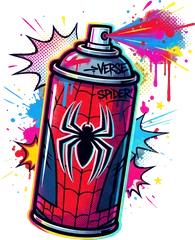
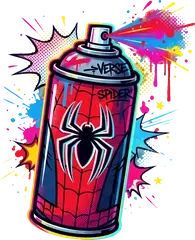
feat: enfoque en infraestructura e IA, lectura más cómoda, rendimiento y SEO
- Rol "Backend Developer · Infraestructura e IA"; Sobre mí en tres párrafos con el enfoque e inglés B1 en Skills
- Texto base de 18 px, más interlineado y contraste; resúmenes en negrita
- Fuentes y avatar servidos desde el sitio, CSS incrustado y lata de spray recomprimida
- nginx con gzip y caché para los assets con hash
- robots.txt, sitemap con hreflang, JSON-LD de Person y descripción por idioma
- Dominio canónico: chewi.dev

diff --git a/src/data/profile.ts b/src/data/profile.ts
@@ -9,7 +9,7 @@ const me = {
   email: 'darwingtx@gmail.com',
   github: 'https://github.com/darwingtx',
   linkedin: 'https://www.linkedin.com/in/darwincastao',
-  avatar: 'https://avatars.githubusercontent.com/u/79672629?v=4',
+  avatar: '/avatar.webp',
 };
 
 // Datos que no cambian con el idioma, en el mismo orden que los textos de cada proyecto.
@@ -67,16 +67,25 @@ const skillItems = [
 ];
 
 const es = {
-  meta: { title: `${me.name} — Backend Developer · AI Engineer`, locale: 'es_CO' },
+  meta: {
+    title: `${me.name} — Backend Developer · Infraestructura e IA`,
+    description: 'Darwin Castaño, backend developer en Medellín. TypeScript, Java y Python; infraestructura, automatización y agentes de IA en producción.',
+    locale: 'es_CO',
+  },
   profile: {
     ...me,
-    role: 'Backend Developer · AI Engineer en formación',
+    role: 'Backend Developer · Infraestructura e IA',
     location: 'Medellín, Colombia',
     summary:
-      'Backend developer en Calenardhon (TypeScript, Java, Python), donde construyo automatizaciones con agentes de IA. Investigo cómo correr LLMs open-source en hardware convencional.',
-    about:
-      'Estoy en último año de Ingeniería Informática en el Politécnico Colombiano Jaime Isaza Cadavid y quiero crecer como <strong class="text-red">AI Engineer</strong>. En el semillero <strong>SIIC</strong> investigo cómo repartir modelos grandes entre PCs comunes para correrlos donde antes no cabían.',
-    interests: ['Inferencia distribuida', 'RAG', 'MLOps', 'Agentes de IA'],
+      'Backend developer en Calenardhon (TypeScript, Java, Python), donde automatizo procesos con agentes de IA. Me enfoco en la infraestructura que hace funcionar la IA: servidores, automatización y modelos en producción.',
+    about: [
+      'Soy estudiante de último año de Ingeniería Informática en el Politécnico Colombiano Jaime Isaza Cadavid, en Medellín. Me apasiona aprender, sobre todo entender cómo funcionan las cosas por dentro.',
+      'Tengo una mezcla de gustos. Por un lado, la <strong>infraestructura</strong>: configurar y mantener servidores, automatizar despliegues y construir backends sólidos, con un ojo puesto en la <strong>ciberseguridad</strong>. Por otro, implementar <strong>IA</strong> y construir cosas con ella. Uso Linux a diario y tengo un homelab propio donde pongo todo eso en práctica.',
+      'Mi enfoque está donde se cruzan: <strong class="text-red">la infraestructura que hace funcionar la IA</strong>. Desplegar, automatizar y operar modelos y agentes en servidores reales, de forma eficiente, segura y a bajo costo.',
+      'En el semillero <strong>SIIC</strong> investigo cómo repartir y usar <strong>modelos grandes de lenguaje (LLMs)</strong> en computadores de uso común, de forma eficiente y a bajo costo, para que una universidad pueda correrlos sin GPUs costosas.',
+    ],
+    interests: ['Infraestructura', 'Servidores Linux', 'DevOps', 'Agentes de IA', 'LLMs en hardware común', 'Ciberseguridad'],
+    languages: { group: 'Idiomas', items: ['Español · nativo', 'Inglés · B1'] },
   },
   ui: {
     nav: ['Sobre mí', 'Experiencia', 'Proyectos', 'Skills', 'Habilidades blandas', 'Contacto'],
@@ -190,16 +199,25 @@ const es = {
 };
 
 const en: typeof es = {
-  meta: { title: `${me.name} — Backend Developer · AI Engineer`, locale: 'en_US' },
+  meta: {
+    title: `${me.name} — Backend Developer · Infrastructure & AI`,
+    description: 'Darwin Castaño, backend developer in Medellín, Colombia. TypeScript, Java, Python; infrastructure, automation and AI agents in production.',
+    locale: 'en_US',
+  },
   profile: {
     ...me,
-    role: 'Backend Developer · Aspiring AI Engineer',
+    role: 'Backend Developer · Infrastructure & AI',
     location: 'Medellín, Colombia',
     summary:
-      'Backend developer at Calenardhon (TypeScript, Java, Python), building automations with AI agents. I research how to run open-source LLMs on commodity hardware.',
-    about:
-      'I am a final-year Computer Engineering student at Politécnico Colombiano Jaime Isaza Cadavid, growing toward <strong class="text-red">AI Engineer</strong>. At the <strong>SIIC</strong> research group I study how to split large models across regular PCs so they run where they did not fit before.',
-    interests: ['Distributed inference', 'RAG', 'MLOps', 'AI agents'],
+      'Backend developer at Calenardhon (TypeScript, Java, Python), automating processes with AI agents. I focus on the infrastructure that makes AI work: servers, automation and models in production.',
+    about: [
+      'I am a final-year Computer Engineering student at Politécnico Colombiano Jaime Isaza Cadavid, in Medellín. I am passionate about learning, especially about understanding how things work under the hood.',
+      'My interests are a mix. On one side, <strong>infrastructure</strong>: configuring and running servers, automating deployments and building solid backends, with an eye on <strong>cybersecurity</strong>. On the other, implementing <strong>AI</strong> and building things with it. I use Linux every day and run my own homelab, where I put all of that into practice.',
+      'My focus is where they meet: <strong class="text-red">the infrastructure that makes AI work</strong>. Deploying, automating and operating models and agents on real servers, efficiently, securely and at low cost.',
+      'At the <strong>SIIC</strong> research group I study how to split and run <strong>large language models (LLMs)</strong> on everyday computers, efficiently and at low cost, so a university can run them without expensive GPUs.',
+    ],
+    interests: ['Infrastructure', 'Linux servers', 'DevOps', 'AI agents', 'LLMs on commodity hardware', 'Cybersecurity'],
+    languages: { group: 'Languages', items: ['Spanish · native', 'English · B1'] },
   },
   ui: {
     nav: ['About', 'Experience', 'Projects', 'Skills', 'Soft skills', 'Contact'],
@@ -319,7 +337,10 @@ export function getContent(locale?: string) {
   return {
     ...c,
     projects: c.projects.map((p, i) => ({ ...projectsBase[i], ...p })),
-    skills: c.skillGroups.map((g, i) => [g, skillItems[i]] as const),
+    skills: [
+      ...c.skillGroups.map((g, i) => [g, skillItems[i]] as const),
+      [c.profile.languages.group, c.profile.languages.items] as const,
+    ],
   };
 }
 

diff --git a/src/styles/global.css b/src/styles/global.css
@@ -8,7 +8,7 @@
 @theme {
   --color-paper: #f8f5ef;
   --color-ink: #111111;
-  --color-muted: #5c5750; /* texto secundario, 6.6:1 sobre paper */
+  --color-muted: #45413c; /* texto secundario, ~9.5:1 sobre paper */
   --color-line: #ddd6ca;
   --color-card: #ffffff; /* superficies: tarjetas y chips */
   --color-coal: #111111; /* tinta fija para texto sobre amarillo, cian, rosa o blanco */
@@ -30,7 +30,7 @@
   color-scheme: dark;
   --color-paper: #0e0e13;
   --color-ink: #f3efe6;
-  --color-muted: #a59f96; /* 7.3:1 */
+  --color-muted: #c4beb4; /* ~10:1 */
   --color-line: #2c2a33;
   --color-card: #17171e;
   --color-red: #ff4757; /* 5.3:1 sobre card */
@@ -42,7 +42,7 @@
 
 @layer base {
   html { scroll-behavior: smooth; scrollbar-color: var(--color-ink) var(--color-paper); }
-  body { @apply bg-paper text-ink font-sans antialiased; }
+  body { @apply bg-paper text-ink font-sans antialiased; font-size: 1.125rem; line-height: 1.7; }
   ::selection { background: var(--color-yellow); color: var(--color-coal); }
   :focus-visible { outline: 3px solid var(--color-red); outline-offset: 4px; }
   a { text-underline-offset: 4px; }

diff --git a/src/pages/sitemap.xml.ts b/src/pages/sitemap.xml.ts
@@ -1,0 +1,15 @@
+import type { APIRoute } from 'astro';
+
+// Solo hay dos páginas (ES y EN): un sitemap a mano evita añadir una dependencia.
+export const GET: APIRoute = ({ site }) => {
+  const es = new URL('/', site).href;
+  const en = new URL('/en/', site).href;
+  const alternates = `<xhtml:link rel="alternate" hreflang="es" href="${es}"/><xhtml:link rel="alternate" hreflang="en" href="${en}"/><xhtml:link rel="alternate" hreflang="x-default" href="${es}"/>`;
+  const body = `<?xml version="1.0" encoding="UTF-8"?>
+<urlset xmlns="http://www.sitemaps.org/schemas/sitemap/0.9" xmlns:xhtml="http://www.w3.org/1999/xhtml">
+  <url><loc>${es}</loc>${alternates}</url>
+  <url><loc>${en}</loc>${alternates}</url>
+</urlset>
+`;
+  return new Response(body, { headers: { 'Content-Type': 'application/xml; charset=utf-8' } });
+};

diff --git a/src/scripts/animations.ts b/src/scripts/animations.ts
@@ -145,7 +145,7 @@ mm.add('(prefers-reduced-motion: no-preference)', () => {
     .from('.plate-pink', { x: 10, y: 10, duration: 0.7, ease: 'power4.out' }, '<')
     // El cargo se pinta como un trazo de rotulador
     .from('.hero-role', { clipPath: 'inset(0 100% 0 0)', duration: 0.5, ease: 'steps(10)' }, 1.4)
-    .from('.hero-item', { y: 16, opacity: 0, duration: 0.6, stagger: 0.1 }, 1.6)
+    .from('.hero-item', { y: 16, duration: 0.6, stagger: 0.1 }, 1.6) // sin opacidad: el resumen es el LCP
     .from('.burst', { scale: 0, rotate: -30, duration: 0.3, ease: 'steps(5)' }, 1.2);
   sprayName();
 

diff --git a/src/pages/robots.txt.ts b/src/pages/robots.txt.ts
@@ -1,0 +1,7 @@
+import type { APIRoute } from 'astro';
+
+// robots.txt generado en build: el dominio del sitemap sigue a SITE_URL.
+export const GET: APIRoute = ({ site }) =>
+  new Response(`User-agent: *\nAllow: /\n\nSitemap: ${new URL('/sitemap.xml', site)}\n`, {
+    headers: { 'Content-Type': 'text/plain; charset=utf-8' },
+  });
